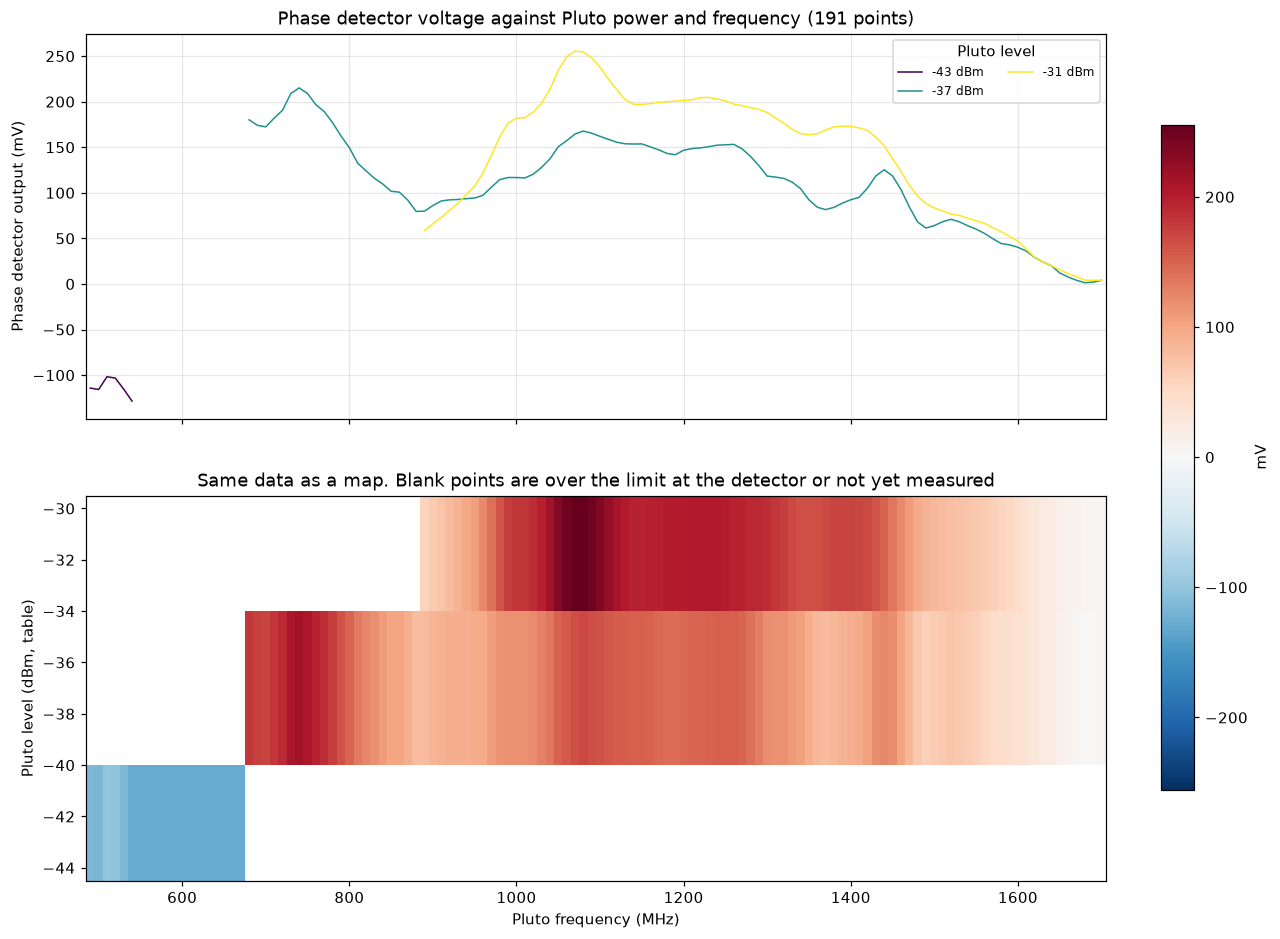
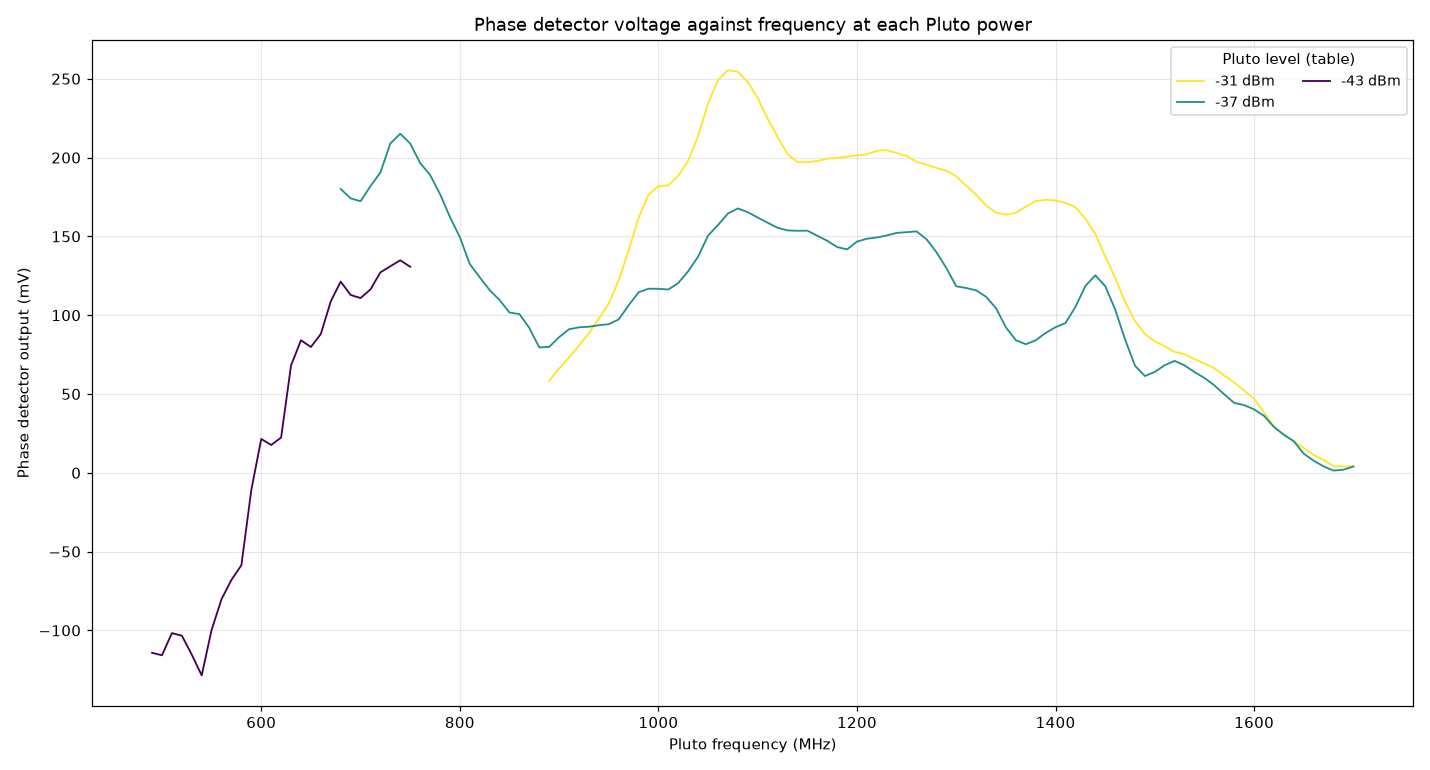
Power map as one curve per level

diff --git a/phase_detector_calibration/plot_power_freq_map.py b/phase_detector_calibration/plot_power_freq_map.py
@@ -1,4 +1,4 @@
-"""Phase detector voltage against Pluto power and frequency, from the map2d pass in pluto_explore_1nov.csv."""
+"""Phase detector voltage against frequency, one curve per Pluto power level, from the map2d pass in pluto_explore_1nov.csv."""
 from pathlib import Path
 
 import matplotlib
@@ -9,26 +9,16 @@ import numpy as np
 HERE = Path(__file__).parent
 d = np.genfromtxt(HERE / "pluto_explore_1nov.csv", delimiter=",", names=True, dtype=None, encoding="utf-8")
 d = d[d["pass"] == "map2d"]
-freqs = np.unique(d["freq_mhz"])
 levels = np.unique(d["pluto_want_dbm"])
-grid = np.full((len(levels), len(freqs)), np.nan)
-for r in d:
-    grid[np.searchsorted(levels, r["pluto_want_dbm"]), np.searchsorted(freqs, r["freq_mhz"])] = r["detector_mean_v"] * 1e3
-fig, ax = plt.subplots(2, 1, figsize=(13, 10), sharex=True)
-for i, want in enumerate(levels):
-    ax[0].plot(freqs, grid[i], lw=1, color=plt.cm.viridis(i / max(len(levels) - 1, 1)), label=f"{want:.0f} dBm")
-ax[0].set_ylabel("Phase detector output (mV)")
-ax[0].set_title(f"Phase detector voltage against Pluto power and frequency ({len(d)} points)")
-ax[0].grid(alpha=0.3)
-ax[0].legend(ncol=2, fontsize=8, title="Pluto level")
-if len(levels) > 1:
-    y = np.append(levels - np.diff(levels, prepend=levels[0] - 3) / 2, levels[-1] + 1.5)
-    x = np.append(freqs - 5, freqs[-1] + 5)
-    lim = np.nanmax(np.abs(grid))
-    pc = ax[1].pcolormesh(x, y, np.ma.masked_invalid(grid), cmap="RdBu_r", vmin=-lim, vmax=lim)
-    fig.colorbar(pc, ax=ax, label="mV", location="right", fraction=0.03)
-ax[1].set_xlabel("Pluto frequency (MHz)")
-ax[1].set_ylabel("Pluto level (dBm, table)")
-ax[1].set_title("Same data as a map. Blank points are over the limit at the detector or not yet measured")
-fig.savefig(HERE / "pluto_power_freq_map_1nov.png", dpi=110, bbox_inches="tight")
+fig, ax = plt.subplots(figsize=(13, 7))
+for i, want in enumerate(levels[::-1]):
+    k = d["pluto_want_dbm"] == want
+    ax.plot(d["freq_mhz"][k], d["detector_mean_v"][k] * 1e3, lw=1.2, color=plt.cm.viridis_r(i / max(len(levels) - 1, 1)), label=f"{want:.0f} dBm")
+ax.set_xlabel("Pluto frequency (MHz)")
+ax.set_ylabel("Phase detector output (mV)")
+ax.set_title("Phase detector voltage against frequency at each Pluto power")
+ax.grid(alpha=0.3)
+ax.legend(title="Pluto level (table)", ncol=2, fontsize=9)
+fig.tight_layout()
+fig.savefig(HERE / "pluto_power_freq_map_1nov.png", dpi=110)
 print(f"{len(d)} points, levels {levels.tolist()}")
